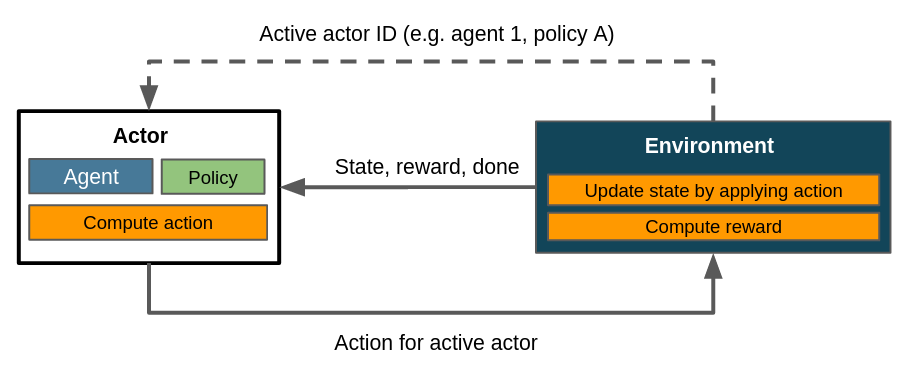
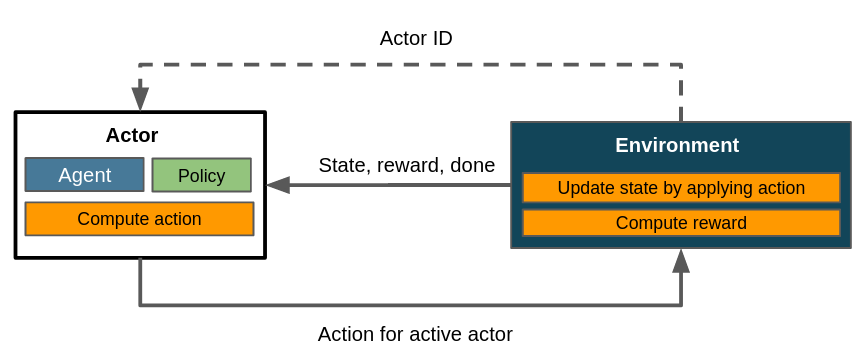
RL-487: Added docs on multistep and multiagent scenario.

Changed region(s): [[0.0, 0.1519, 0.9954, 0.8508], [0.28, 0.0608, 0.6843, 0.1215], [0.3422, 0.8812, 0.591, 0.942]]

diff --git a/docs/source/concepts_and_structure/control_flows_struct_envs.rst b/docs/source/concepts_and_structure/control_flows_struct_envs.rst
@@ -19,7 +19,7 @@ Maze addresses these problems by baking the concept of *actors* into its control
 An actor is defined as the combination of a specific policy and a specific agent. They are uniquely identified by the agent ID and the policy key. From a more abstract perspective an actor describes *which task should be done* (via the policy) for *which entity* (the agent). In the case of the vehicle routing problem an agent might correspond to a vehicle and a policy might correspond to a task like "pick an order" or "drive to point X". A :class:`StructuredEnv <maze.core.env.structured_env.StructuredEnv>` has exactly one active actor at any time. There can be an arbitrary number of actors. They can be created and destroyed dynamically by the environment, by respectively specifying their ID or marking them as *done*. Their lifecycles are thus flexible, they don't have to be available through the entirety of the environment's lifecycle.
 
 .. figure:: struct_env_control_flow.png
-    :width: 75 %
+    :width: 80 %
     :align: center
 
     Overview of control flow with structured environments. Note that the line denoting the communication of the active actor ID is dashed because it is not returned by :meth:`~maze.core.env.maze_env.MazeEnv.step`, but instead queried via :meth:`~maze.core.env.structured_env.StructuredEnv.actor_id`.
@@ -36,14 +36,13 @@ A multi-agent scenario can be realized by defining the corresponding actor IDs u
 
 The environment determines the active actor based on its internal state. The current actor evaluates the observation provided by the environment and selects an appropriate action, i.e. every action is associated with a specific actor. This action updates the environment's state, after which the the environment reevaluates which actor should be active. Since it is left to the environment to decide when which actor should be active, it is possible to chain, combine and nest policies and therefore tasks in arbitrary manner.
 
-Every :class:`StructuredEnv <maze.core.env.structured_env.StructuredEnv>` is required to implement :meth:`~maze.core.env.structured_env.StructuredEnv.actor_id`, which returns the ID of the currently active actor. An environment with a single actor may return a single-actor signature such as `(0, 0)`.
+Every :class:`StructuredEnv <maze.core.env.structured_env.StructuredEnv>` is required to implement :meth:`~maze.core.env.structured_env.StructuredEnv.actor_id`, which returns the ID of the currently active actor. An environment with a single actor may return a single-actor signature such as `(0, 0)`. At any time there has to be exactly one active actor ID.
 
 **Policy-specific space conversion**
 
 Since different policies may benefit from or even require a different preprocessing of their actions and/or observations (especially, but not exclusively, for action masking), Maze requires the specification of a corresponding :class:`ActionConversionInterface <maze.core.env.action_conversion.ActionConversionInterface>` and :class:`ObservationConversionInterface <maze.core.env.observation_conversion.ObservationConversionInterface>` class for each policy. This permits to tailor actions and/or observations to the mode of operation of the relevant policy.
 
-
-**Summary**
+_____
 
 The actor concept and the mechanisms supporting it are thus capable of
 
@@ -56,27 +55,17 @@ The actor concept and the mechanisms supporting it are thus capable of
 
 These capabilities allow to bypass the tree restrictions laid out at the outset.
 
-
-.. _control_flows_struct_envs_context:
-
-Maze Mechanisms in a Broader Context
-------------------------------------
-
-The assumptions stated above are related to concepts well established in RL literature: *1.* to `multi-agent learning <https://arxiv.org/abs/1911.10635>`_, *2.* to `auto-regressive action distributions (ARAD) <https://docs.ray.io/en/master/rllib-models.html#autoregressive-action-distributions>`_ and *3.* to `hierarchical RL <https://arxiv.org/abs/1909.10618>`_. Multi-agent learning and hierarchical RL are supported by Maze.
-
-The problem motivating *2.* is a lack of temporal coherency in the sequence of selected actions: if there is some necessary, recurring order of actions, we would like to identify it as quickly as possible. ARADs as used in in DeepMind's `Grandmaster level in StarCraft II using multi-agent reinforcement learning <https://www.nature.com/articles/s41586-019-1724-z>`_ are one way to tackle this. They still execute one action per step, but condition it on the previous state and *action* instead of the state alone. This allows it to be more sensitive towards such recurring patterns of actions. We do not explictily implement ARADs, but offer *multi-stepping* as an alternative. Multi-stepping is a pattern that utilizes the actor mechanism as previously discussed to enact multiple actions in a single step in their correct order, without having to rely on learned autoregressive policies learning.
-
-Both approaches aim at increasing the temporal coherence of actions. Multi-stepping allows to incorporate domain knowledge about the correct order of actions or tasks, but depends on the environment to incorporate this. ARAD policies do not presuppose (and cannot make use of) any such prior knowledge. They could be approximated within MAZE with the available set of functionality however by extending observations by prior actions and forwarding those to the active actor. If relevant domain knowledge is available, we recommend to implement the multi-stepping though.
-
 .. _control_flows_struct_envs_next:
 
 Where to Go Next
 ----------------
 
-Strutured environments are general enough to give rise to a number of different specifications with different capabilities. We cover those specifications in a series of articles listed below and provide links to implemented examples.
+Strutured environments are general enough to give rise to a number of different patterns with different capabilities. We cover applications of structured environments and their broader context, including literature, in a series of articles listed below. Links to implemented examples are provided as well.
 
 - :ref:`Flat environments with structured environments<struct_env_flat>`. Example: :ref:`Stock cutting without multi-stepping.<env_from_scratch-problem>`.
 - :ref:`Multi-stepping with structured environments<struct_env_multistep>`. Example: :ref:`Stock cutting with multi-stepping<flat_to_structured>`.
 - :ref:`Multi-agent RL with structure environments<struct_env_multiagent>`. Example: Vehicle routing problem, i.e. the coordination of a fleet of delivery vehicles with different targets [todo].
 - :ref:`Hierarchical RL with structured environments<struct_env_hierarchical>`. Example: Pick and place robots, i.e. a robotic arm picking and placing objects, in the process iterating over a sequence of sub-goals [todo - also: different example prob. better].
 - :ref:`Arbitrary environments with evolutionary strategies<struct_env_evolutionary>` [todo].
+
+Note that multi-stepping, multi-agent and hiearchical learning are orthogonal to each other and can be used in any combination.

diff --git a/docs/source/best_practices_and_tutorials/struct_env_examples/multiagent/intro.rst b/docs/source/best_practices_and_tutorials/struct_env_examples/multiagent/intro.rst
@@ -3,21 +3,30 @@
 Multi-Agent RL with Structured Environments
 ===========================================
 
-`Multi-agent reinforcment learning (MARL) <https://arxiv.org/abs/1911.10635>`_ describes a setup in which more than several collaborating or competing agents act as individual entitites in an environment. This introduces the additional complexity of emergent effects between those agents. Some problems require to or at least benefit from deviating from a single-agent formulation, such as the `vehicle routing problem <https://en.wikipedia.org/wiki/Vehicle_routing_problem>`_, `(video) games like Starcraft <https://www.nature.com/articles/s41586-019-1724-z>`_, `traffic coordination<http://www.wiomax.com/team/xie/paper/ICAPS12.pdf>`_, `power systems and smart grids<https://ieeexplore.ieee.org/abstract/document/7855760>`_ and many others.
+.. note::
+    Recommended prior to this article:
+        - :ref:`Control Flows with Structured Environments<control_flows_struct_envs>`.
+        - :ref:`Flat Environments as a special case of structured environments<control_flows_struct_envs>`.
 
-Maze supports multi-agent learning out of the box. In order to make a :class:`StructuredEnv <maze.core.env.structured_env.StructuredEnv>` compatible with such a setup, it needs to keep track of the activities of each individual agent. While the order in which actions for the individual agents are enacted are left to the environment, it is required that at any point in time there is exactly one active actor (see :ref:`here<control_flows_struct_envs>` for more information on the distinction between actor and agent). It is easily possible, but not necessary, to include multiple policies in a multi-agent scenario.
+`Multi-agent reinforcment learning (MARL) <https://arxiv.org/abs/1911.10635>`_ describes a setup in which several collaborating or competing agents act as individual entitites in an environment. This introduces the additional complexity of emergent effects between those agents. Some problems require to or at least benefit from deviating from a single-agent formulation, such as the `vehicle routing problem <https://en.wikipedia.org/wiki/Vehicle_routing_problem>`_, `(video) games like Starcraft <https://www.nature.com/articles/s41586-019-1724-z>`_, `traffic coordination <http://www.wiomax.com/team/xie/paper/ICAPS12.pdf>`_, `power systems and smart grids <<https://ieeexplore.ieee.org/abstract/document/7855760>>`_ and many others.
 
-Information on the active actor and therefore agent is accessed via :meth:`~maze.core.env.structured_env.StructuredEnv.actor_id`. As long as the environment implements this method and the internal state of each agent correctly, there are no further prerequisites to be fulfilled for a multi-agent training.
+Maze supports multi-agent learning out of the box. In order to make a :class:`StructuredEnv <maze.core.env.structured_env.StructuredEnv>` compatible with such a setup, it needs to keep track of the activities of each agent internally. How this is done and the order in which sequence agents enacted their actions is entirely to the environment. As per customary for a structured environment, it is required to provide the ID of the active actor via :meth:`~maze.core.env.structured_env.StructuredEnv.actor_id` (see :ref:`here<control_flows_struct_envs>` for more information on the distinction between actor and agent). There are no further prequisites to use multiple agents with an environment.
 
+It is easily possible, but not necessary, to include multiple policies in a multi-agent scenario. The control flow with multiple agents and a single policy can be summarized like this:
 
+.. figure:: control_flow.png
+    :width: 80 %
+    :align: center
 
-    Control flow within a multi-agent scenario. Note that we assume a single policy here. In this setup :meth:`~maze.core.env.structured_env.StructuredEnv.actor_id` should return a tuple of the current actor ID and a constant policy key.
+    Control flow within a multi-agent scenario. Note that we assume a single policy here. Dashed lines denote the exchange of information on demand as opposed to doing so passing it to or returning it from the environment's :meth:`~maze.core.env.maze_env.MazeEnv.step`.
 
-You'll notice that the actor entity coordinating policies and agents to compute an appropriate action.
-In comparing with the flat environment you'll notice that this flow differs in (a) that there are multiple agents, (b) that the agent is chosen according to the active actor ID specified by the environment and (c) that the environment's step function has to do keep track on the active agent/actor. The underlying pathways however are identical - within Maze' actor mechanism flat environments are merely a particular specification amongst many.
+| When comparing this to the control flow depicted in :ref:`the article on flat environments<control_flows_struct_envs>` you'll notice that here we consider several agents and therefore several actors - more specifically, in a setup with *n* agents we have at least *n* actors. Consequently the environment has to update its active actor ID, which is not necessary in flat environments.
+| The underlying pathways however are identical for all instances of :class:`StructuredEnv <maze.core.env.structured_env.StructuredEnv>`. Within Maze' actor mechanism, multi-agent environments are merely a particular specification amongst many.
 
-.. toctree::
-   :maxdepth: 1
-   :hidden:
+Where to Go Next
+----------------
 
-   test.rst
+- :ref:`Gym-style flat environments as a special case of structured environments<struct_env_multiagent>`.
+- :ref:`Multi-stepping applies the actor mechanism to enact several policies in a single step<struct_env_multistep>`.
+- :ref:`Hierarchical RL by chaining and nesting tasks via policies.<struct_env_hierarchical>`.
+- :ref:`Arbitrary environments with evolutionary strategies<struct_env_evolutionary>` [todo].

diff --git a/docs/source/best_practices_and_tutorials/struct_env_examples/multistep/intro.rst b/docs/source/best_practices_and_tutorials/struct_env_examples/multistep/intro.rst
@@ -3,10 +3,45 @@
 Multi-Stepping with Structured Environments
 ===========================================
 
-Mention autoregressive action distributions.
+.. note::
+    Recommended reads prior to this article:
+        - :ref:`Control Flows with Structured Environments<control_flows_struct_envs>`.
+        - :ref:`Flat Environments as a special case of structured environments<control_flows_struct_envs>`.
 
-.. toctree::
-   :maxdepth: 1
-   :hidden:
+We define multi-stepping as the execution of more than one action (or sub-step) in a single step. This is motivated by problem settings in which a certain sequence of actions is known a priori. In such cases incorporating this knowledge can significantly increase learning efficiency. The `stock cutting problem <https://en.wikipedia.org/wiki/Cutting_stock_problem>`_ poses an example: It is known, independently from the specifics of the environment's state, that fulfilling a single customer order for a piece involves (a) picking a piece at least as big as the ordered item (b) cutting it to the correct size.
 
-   test.rst
+While it is not trivial to decide which items to pick for which orders and how to cut them, the sequence of piece selection before cutting is constant - there is no advantage to letting our agent figure it out by itself. Maze permits to incorporate this sort of domain knowledge by enabling to select and execute more than one action in a single step. This is done by
+
+- utilizing the actor mechanism to instantiate more than one policy and
+- enabling to query policies on demand instead of receiving the policy output (i.e. the suggested action) as argument in :meth:`~maze.core.env.maze_env.MazeEnv.step`.
+
+In the case of the stock cutting problem the action two policies could be considered: "select" and "cut". The piece selection action might be provided to the environment at the beginning of each step, after which the cutting policy - conditioned on the current state with the already selected piece - can be queried to produce an appropriate cutting action. An implementation of a multi-stepping stock cutting environment can be found :ref:`here<flat_to_structured>`.
+
+In general, the control flow for multi-stepping environments involve at least two policies and one agent. It is easily possible, but not necessary, to include multiple agents in a multi-step scenario. The following image depicts a multi-step setup with one agent and an arbitrary number of sub-steps/policies.
+
+.. figure:: control_flow.png
+    :width: 80 %
+    :align: center
+
+    Control flow within a multi-stepping scenario. Note that we assume a single agent here. The loop inside the environment component indicates that this sequence of activities can be repeated an arbitrary number of times. Dashed lines denote the exchange of information on demand as opposed to doing so passing it to or returning it from the environment's :meth:`~maze.core.env.maze_env.MazeEnv.step`.
+
+| When comparing this to the control flow depicted in :ref:`the article on flat environments<control_flows_struct_envs>` you'll notice that here we consider several policies and therefore several actors - more specifically, in a setup with *n* sub-steps (or actions per step) we have at least *n* actors. Consequently the environment has to update its active actor ID, which is not necessary in flat environments.
+| The underlying pathways however are identical for all instances of :class:`StructuredEnv <maze.core.env.structured_env.StructuredEnv>`. Within Maze' actor mechanism, multi-step environments are merely a particular specification amongst many.
+
+
+Relation to Auto-Regressive Action Distributions
+------------------------------------------------
+
+Multi-stepping is closely related to `auto-regressive action distributions (ARAD) <https://docs.ray.io/en/master/rllib-models.html#autoregressive-action-distributions>`_ as used in in DeepMind's `Grandmaster level in StarCraft II using multi-agent reinforcement learning <https://www.nature.com/articles/s41586-019-1724-z>`_. Both ARADs and multi-stepping are motivated by a lack of temporal coherency in the sequence of selected actions: if there is some necessary, recurring order of actions, it should be identified it as quickly as possible.
+
+ARADs still execute one action per step, but condition it on the previous state and *action* instead of the state alone. This allows them to be more sensitive towards such recurring patterns of actions. Multi-stepping allows to incorporate domain knowledge about the correct order of actions or tasks without having to rely on learned autoregressive policies learning, but depends on the environment to incorporate it. ARAD policies do not presuppose (and cannot make use of) any such prior knowledge.
+
+While we do not explicitly implement ARADs, they could be approximated within MAZE with the available set of functionality by extending observations by prior actions and forwarding those to the active actor. If relevant domain knowledge is available, we recommend to implement the multi-stepping though.
+
+Where to Go Next
+----------------
+
+- :ref:`Gym-style flat environments as a special case of structured environments<struct_env_multiagent>`.
+- :ref:`Multi-agent RL by using multiple actors with different agents<struct_env_multiagent>`.
+- :ref:`Hierarchical RL by chaining and nesting tasks via policies.<struct_env_hierarchical>`.
+- :ref:`Arbitrary environments with evolutionary strategies<struct_env_evolutionary>` [todo].

diff --git a/docs/source/best_practices_and_tutorials/struct_env_examples/flat/intro.rst b/docs/source/best_practices_and_tutorials/struct_env_examples/flat/intro.rst
@@ -3,26 +3,31 @@
 Flat Environments
 =================
 
-All instantiable environments in Maze are subclasses of :class:`StructuredEnv <maze.core.env.structured_env.StructuredEnv>`. Structured environments are discussed in :ref:`Control Flows with Structured Environments<control_flows_struct_envs>`, which we recommend to read prior to this article. *Flat* environments in our terminology are those utilizing a single actor and a single policy, i. e. a single actor. Within Maze, flat environments are a special case of structured environments.
+.. note::
+    Recommended reads prior to this article:
+        - :ref:`Control Flows with Structured Environments<control_flows_struct_envs>`.
+
+All instantiable environments in Maze are subclasses of :class:`StructuredEnv <maze.core.env.structured_env.StructuredEnv>`. Structured environments are discussed in :ref:`Control Flows with Structured Environments<control_flows_struct_envs>`, which we recommend to read prior to this article. *Flat* environments in our terminology are those utilizing a single actor and a single policy, i. e. a single actor, and conducting one action per step. Within Maze, flat environments are a special case of structured environments.
 
 Let's revisit a classic depiction of a RL control flow first:
 
-.. figure:: ../flat/control_flow_simple.png
-    :width: 75 %
+.. figure:: control_flow_simple.png
+    :width: 80 %
     :align: center
 
     Simplified control flow within a flat scenario. The agent selects an action, the environment updates its state and computes the reward. There is no need to distinguish between different policies or agents since we only have one of each. :meth:`~maze.core.env.structured_env.StructuredEnv.actor_id` should always return the same value.
 
 A more general framework however needs to be able to integrate multiple agents and policies into its control flow. Maze does this by implementing actors, which are abstractions introduced in the RL literature to represent the application of one policy on one agent.
-The figure above collapses the concepts of policy, agent and actor into a single entity for the sake of simplicity. The actual control flow in Maze for a flat environment is closer to this:
+The figure above collapses the concepts of policy, agent and actor into a single entity for the sake of simplicity. The actual control flow for a flat environment in Maze is closer to this:
 
-.. figure:: ../flat/control_flow_complex.png
-    :width: 75 %
+.. figure:: control_flow_complex.png
+    :width: 80 %
     :align: center
 
-    More accurate control flow for a flat environment in Maze, showing how the actor mechanism integrates agent and policy. Note that the line denoting the communication of the active actor ID is dashed because it is not returned by :meth:`~maze.core.env.maze_env.MazeEnv.step`, but instead queried via :meth:`~maze.core.env.structured_env.StructuredEnv.actor_id`.
+    More accurate control flow for a flat environment in Maze, showing how the actor mechanism integrates agent and policy. Dashed lines denote the exchange of information on demand as opposed to doing so passing it to or returning it from the environment's :meth:`~maze.core.env.maze_env.MazeEnv.step`.
 
-A flat environment interacts with a single actor consisting of a single agent and a single policy. The concept of actors is crucial to the flexibility of Maze, since it allows to arbitrarily scale up the number of agents, policies or both - which enables the application of RL to a wider range of use cases and exploit properties of the respective domains more efficiently.
+A flat environment hence interacts with a single actor consisting of a single agent and a single policy. Due to the lack of other actors there is no need for the environment to ever update its active actor ID.
+The concept of actors is crucial to the flexibility of Maze, since it allows to arbitrarily scale up the number of agents, policies or both - which enables the application of RL to a wider range of use cases and exploit properties of the respective domains more efficiently.
 
 Where to Go Next
 ----------------

diff --git a/docs/source/best_practices_and_tutorials/struct_env_examples/hierarchical/intro.rst b/docs/source/best_practices_and_tutorials/struct_env_examples/hierarchical/intro.rst
@@ -3,12 +3,25 @@
 Hierarchical RL with Structured Environments
 ============================================
 
-The remainder of this tutorial is structured as follows:
+.. note::
+    Recommended reads prior to this article:
+        - :ref:`Control Flows with Structured Environments<control_flows_struct_envs>`.
+        - :ref:`Flat Environments as a special case of structured environments<control_flows_struct_envs>`.
 
-The remainder of this tutorial is structured as follows:
+Hiearchical reinforcement learning
 
-.. toctree::
-   :maxdepth: 1
-   :hidden:
 
-   test.rst
+todos
+- mention connection to action masking
+- (potential) advantages over action masking: cleaner code, no learning of masking effect required (?), reusable higher-level
+- example: fabriation of component out of parts?
+- https://thegradient.pub/the-promise-of-hierarchical-reinforcement-learning/
+-> reduce action space, generalization/modularity by transfering meta-policies to similar problems, decomposition into task hierarchy is reflected in cleaner code (action masking not - or less - required, received actions are only containing relevant action subspaces).
+
+Where to Go Next
+----------------
+
+- :ref:`Gym-style flat environments as a special case of structured environments<struct_env_multiagent>`.
+- :ref:`Multi-stepping applies the actor mechanism to enact several policies in a single step<struct_env_multistep>`.
+- :ref:`Multi-agent RL by using multiple actors with different agents<struct_env_multiagent>`.
+- :ref:`Arbitrary environments with evolutionary strategies<struct_env_evolutionary>` [todo].

diff --git a/docs/source/best_practices_and_tutorials/struct_env_examples/evolutionary/intro.rst b/docs/source/best_practices_and_tutorials/struct_env_examples/evolutionary/intro.rst
@@ -12,3 +12,11 @@ The remainder of this tutorial is structured as follows:
    :hidden:
 
    test.rst
+
+Where to Go Next
+----------------
+
+- :ref:`Gym-style flat environments as a special case of structured environments<struct_env_multiagent>`.
+- :ref:`Multi-stepping applies the actor mechanism to enact several policies in a single step<struct_env_multistep>`.
+- :ref:`Multi-agent RL by using multiple actors with different agents<struct_env_multiagent>`.
+- :ref:`Hierarchical RL by chaining and nesting tasks via policies.<struct_env_hierarchical>`.
